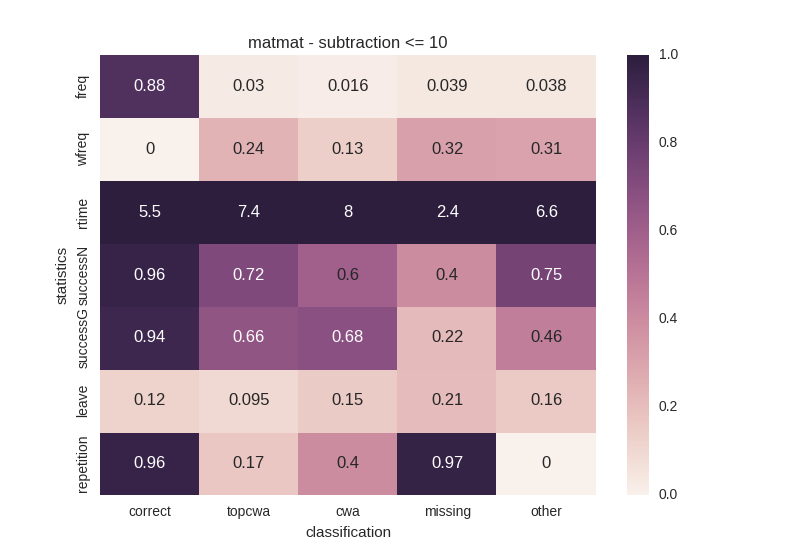
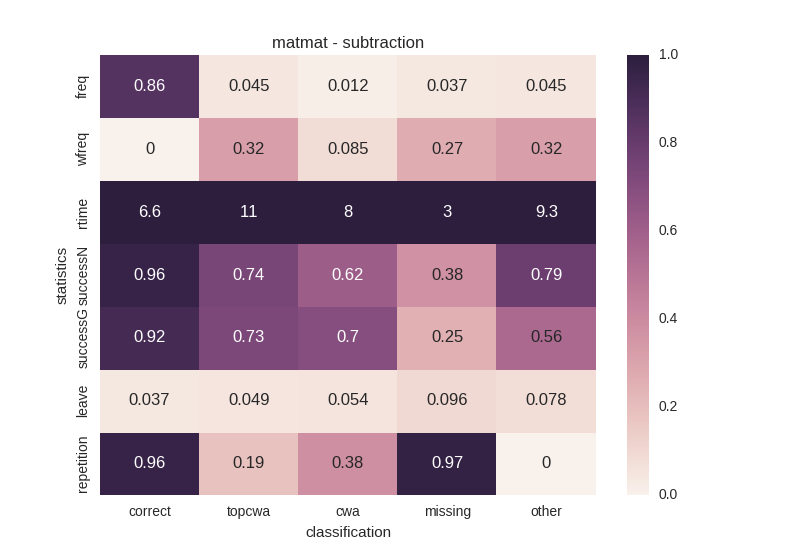
matmat - wrong answers - global leave, bigger concepts, add csv

diff --git a/matmat/wrong_asnwers.py b/matmat/wrong_asnwers.py
@@ -14,6 +14,7 @@ def filter_answers(data, skill):
     items = data.get_items_df()
     items = items[items["skill_lvl_" + str(level)] == pk]
     answers = data.get_dataframe_all()
+    last_in_session(answers)
     return pd.DataFrame(answers[answers["item"].isin(items.index)])
 
 
@@ -47,6 +48,7 @@ def next_item(answers):
     answers["next_correct"] = answers.groupby(["item", "student"])["correct"].shift(-1)
     answers["next_correct_global"] = answers.groupby(["student"])["correct"].shift(-1)
 
+
 def last_in_session(answers):
     answers["timestamp"] = pd.to_datetime(answers["timestamp"])
     answers["next_timestamp"] = answers.groupby("student")["timestamp"].shift(-1)
@@ -56,7 +58,6 @@ def last_in_session(answers):
 def get_stats(data, context, system="matmat"):
     answers = filter_answers(data, context)
     next_item(answers)
-    last_in_session(answers)
     df = pd.DataFrame(columns= ["system", "context", "classification", "statistics", "value"])
     answers = tag_answers(answers)
     for cl, value in (answers.groupby("class").apply(len) / len(answers)).items():
@@ -83,13 +84,15 @@ def get_stats(data, context, system="matmat"):
     plt.title("{} - {}".format(system, context))
     pivot = pivot.loc[["freq", "wfreq", "rtime", "successN", "successG", "leave", "repetition"], ["correct", "topcwa", "cwa", "missing", "other"]]
     sns.heatmap(pivot, annot=True, vmax=1)
+    plt.savefig("results/wrong answers/{}.png".format(context))
     return df
 
 
 data = Data("../data/matmat/2016-01-04/answers.pd")
-concepts = ["numbers <= 10", "numbers <= 20", "addition <= 10", "subtraction <= 10", "multiplication1"]
+# concepts = ["numbers <= 10", "numbers <= 20", "addition <= 10", "subtraction <= 10", "multiplication1"]
+concepts = ["numbers", "addition", "subtraction", "multiplication", "division"]
 results = pd.concat([get_stats(data, concept) for concept in concepts])
 
 print(results)
 results.to_csv("results/wrong answers/matmat.csv", sep=";", index=False)
-# plt.show()
+plt.show()
